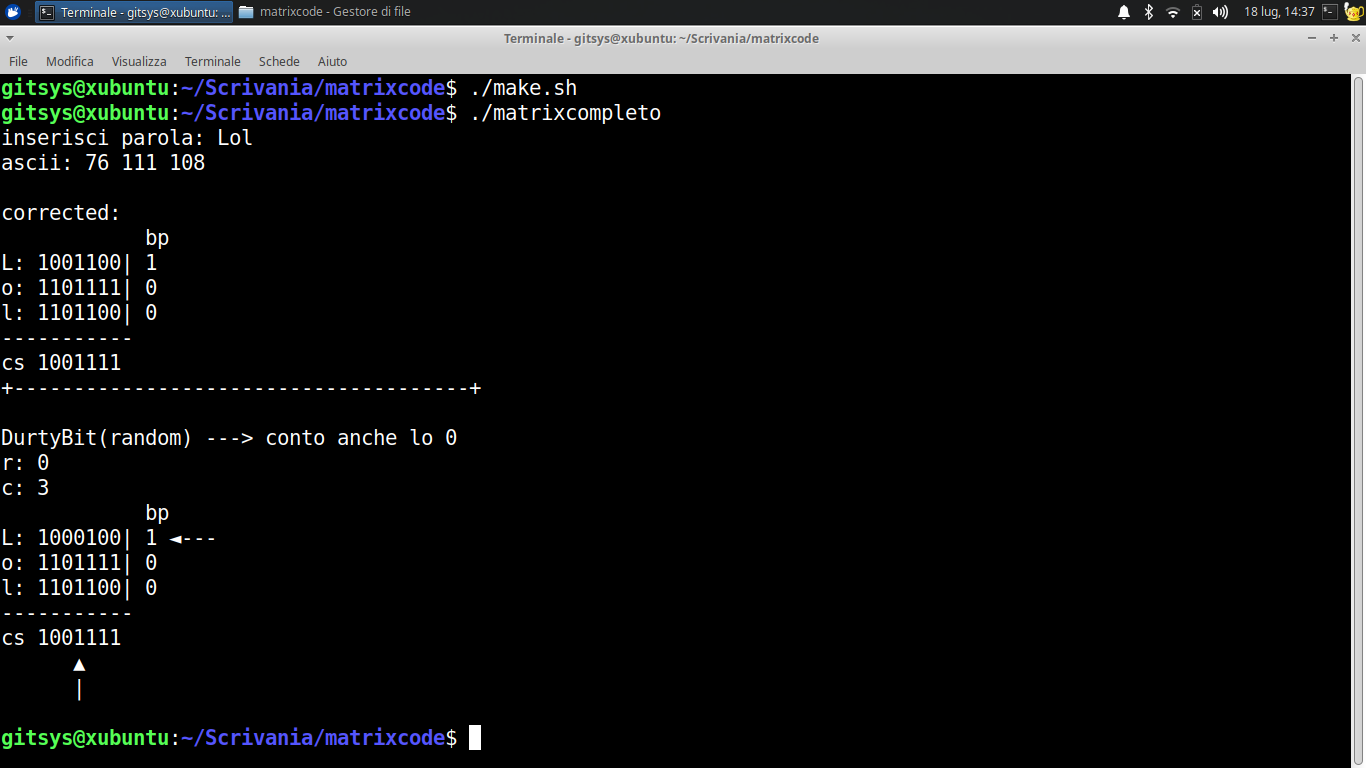
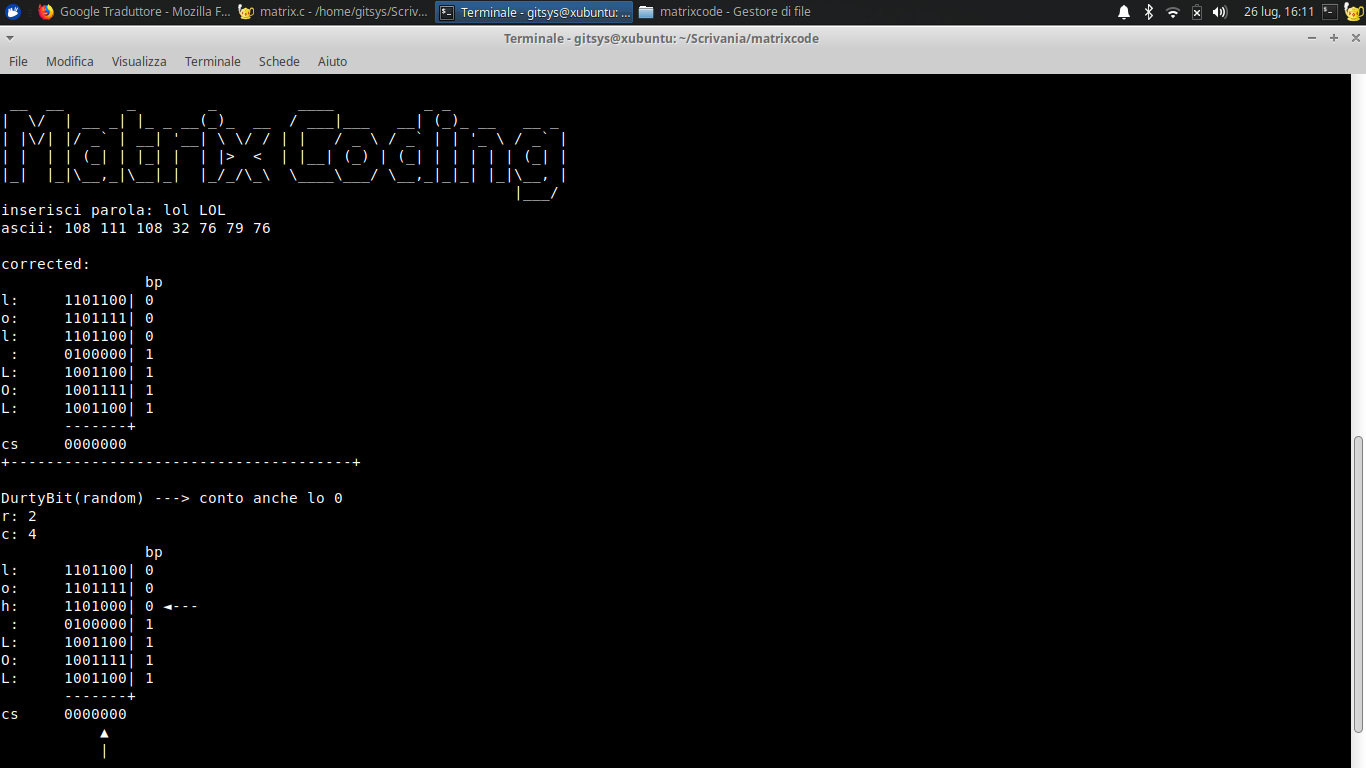
final commit n6

diff --git a/matrixfunc.c b/matrixfunc.c
@@ -2,13 +2,14 @@
 #include <stdlib.h>
 #include <string.h>
 #include <time.h>
+#include <math.h>
 
 #include "matrixlib.h"
 
 void fascii(int ascii[],char parola[])
 {
-	//#converte char in ascii e stampa
-	int l = strlen(parola)-1;
+	//#converte char in decimal e stampa
+	int l = strlen(parola)-1; 
 	for(int i=0;i<l;i++){
 		ascii[i]=(int)parola[i];
 		printf("%d ",ascii[i]);
@@ -17,21 +18,21 @@ void fascii(int ascii[],char parola[])
 }
 void intbin(int b[][C],int binv[][C],int n[],char parola[]) //n=numero ascii
 {
-	//#da ascii a bin
+	//#da decimal a bin
 	printf("\n");
 	int l = strlen(parola)-1;
 	for(int i=0;i<l;i++){
 		for(int j=0;j<C;j++){
-			if(n[i]%2==0){
+			if(n[i]%2==0){//resto 0
 				b[i][j]=0;
-			}else{
+			}else{// resto 1
 				b[i][j]=1;
 			}
 			n[i]=n[i]/2;
 		}
 	}
 
-	binReverse(b,binv,parola);
+	binReverse(b,binv,parola); //reverse della stringa binaria
 
 }
 void binReverse(int bintmp[][C],int pbin[][C],char parola[])
@@ -60,13 +61,14 @@ void binReverse(int bintmp[][C],int pbin[][C],char parola[])
 void stampa(int arrbp[],int arrcs[],int pbi[][C],char parola[],int xr,int n)
 {
 	int l = strlen(parola)-1;
-	printf("\t    bp");
+	printf("\t        bp");
 	for(int i=0;i<l;i++){
 		//stampa parola
-		if( n==0 || (xr!=i && n==1) ){
-			printf("\n%c: ",parola[i]);
+		if( n==0 || (xr!=i && n==1) ){ 
+			printf("\n%c:     ",parola[i]);
 		}else if(xr==i && n==1){
-			printf("\nP: ");
+			int cascii=binint(pbi,xr,parola);
+			printf("%c:     ",cascii);
 		}
 		for(int j=0;j<C;j++){
 			//stampa stringa binaria
@@ -82,12 +84,13 @@ void stampa(int arrbp[],int arrcs[],int pbi[][C],char parola[],int xr,int n)
 	}
 	
 	//stampa separatore
-	printf("\n");
-	for(int i=0;i<11;i++)
+	printf("\n       ");
+	for(int i=0;i<7;i++)
 		printf("-");
+	printf("+");
 
 	/*stampa cs*/
-	printf("\ncs ");
+	printf("\ncs     ");
 	for(int j=0;j<C;j++){
 		printf("%d",arrcs[j]);
 	}
@@ -154,9 +157,9 @@ void rilevazione(int m[][C],char parola[],int arrbp[],int arraycs[],int *xr,int 
 			}
 		}
 		//righe
-		x=controllo(parola,arrbp,contbp,arraycs,contcs,i,0);
+		x=controllo(parola,arrbp,contbp,arraycs,contcs,i,0); 
 		if(x!=0){
-			*xr=x;
+			*xr=x; //prendo la cordinata(righe)
 		}
 		//printf("\n");
 		contbp=0;
@@ -173,7 +176,7 @@ void rilevazione(int m[][C],char parola[],int arrbp[],int arraycs[],int *xr,int 
 		//colonne
 		y=controllo(parola,arrbp,contbp,arraycs,contcs,j,1);
 		if(y!=0){
-			*yc=y;
+			*yc=y;//prendo la cordinata(colonna)
 		}
 		contcs=0;
 	}
@@ -181,6 +184,10 @@ void rilevazione(int m[][C],char parola[],int arrbp[],int arraycs[],int *xr,int 
 }
 int controllo(char p[],int arrbp[],int cbp,int arrcs[],int ccs,int z,int n)
 {
+	/*
+	 * n=0 --> bit di parità
+	 * n=1 --> checksum
+	*/ 
 	switch(n){
 		case 0:
 			if((cbp%2==0 && arrbp[z]==1) || (cbp%2==1 && arrbp[z]==0)){ //se numero cbp-->pari&&arrbp[z]-->1	 oppure	 cbp-->dipari&&arrbp[z]-->0
@@ -198,7 +205,7 @@ return 0;
 }
 void setw(int yc)
 {	
-	printf("\n   ");
+	printf("\n       ");
 	for(int i=0;i<yc;i++){
 		printf(" "); 
 	}
@@ -207,8 +214,30 @@ void setw(int yc)
 	for(int i=0;i<yc;i++){
 		printf(" "); 
 	}
-	printf("   |\n\n");
+	printf("       |\n\n");
 
 	
 }
+int binint(int m[][C],int xr,char parola[])
+{
+	//salvo in v[C] la stringa binaria della matrice "sporcata"
+	int v[C],n=0;
+	printf("\n");
+	for(int i=0;i<strlen(parola)-1;i++){
+		if(xr==i){ //controllo
+			for(int j=0;j<C;j++){
+					v[j]=m[xr][j];
+			}
+		}
+			
+	}
 
+	//da binario a decimal
+	for(int i=C-1,j=0; i>=0; i--,j++){
+		if(v[j]==1){
+			n=n+pow(2,i); //n=n+2^i
+		}
+	}
+	
+return n;
+}

diff --git a/matrix.c b/matrix.c
@@ -37,21 +37,15 @@ int main()
 	int xr,yc;
 	                                                                                   
 	do{
-		system(PULISCI);
-		#if __linux__ || __GNUC__ || __LINUX__ || _linux || __APPLE__
-				system("figlet -l ""Matrix  Coding""");
-		#elif __WIN32__ || _WIN64 || __CYGWIN__ || __CYGWIN32__
-				printf("=============\n");
-				printf("Matrix Coding");
-				printf("\n=============\n");
-		#endif
+		system(PULISCI); //pulizia dello schermo funzionante sia in winzzoz che in linux
+		OSINTRO(); //macro definita in matrixlib.h
 		printf("inserisci parola: ");
 		//scanf("%s",parola);
-		fgets(parola,99,stdin);
+		fgets(parola,99,stdin); //mi tiene conto del carattere 32 (lo spazio)
 	}while(strcmp(parola,"\n")==0);			
 	
 	printf("ascii: ");
-	fascii(ascii,parola);
+	fascii(ascii,parola); //convert char in deciaml
 	intbin(bintmp,binv,ascii,parola); //convrt int/bin
 
 	printf("\n");
@@ -63,7 +57,10 @@ int main()
 
 	rilevazione(binv,parola,arrbp,arrcheck,&xr,&yc); //passaggio per riferimento in C
  	stampa(arrbp,arrcheck,binv,parola,xr,1);
- 	setw(yc);
+ 	setw(yc); //con i dovuti spazi stampo su schermo la freccia verticale
+ 	printf("\n\n");
+ 
+
  	
 return 0;
 }

diff --git a/matrixlib.h b/matrixlib.h
@@ -1,11 +1,18 @@
-#if __linux__ || __GNUC__ || __LINUX__ || _linux || __APPLE__
+#if __linux__	//se è un sistema linux dichiara
 #	define FRECCIAORIZZONTALE " ◄---"
 #	define FRECCIAVERTICALE "▲\n"
 #	define PULISCI "clear"
-#elif __WIN32__ || _WIN64 || __CYGWIN__ || __CYGWIN32__
+#	define OSINTRO() system("figlet -l ""Matrix  Coding""")
+#elif __APPLE__ //altrimenti se è un sistema apple dichiara
+#	define FRECCIAORIZZONTALE " ◄---"
+#	define FRECCIAVERTICALE "▲\n"
+#	define PULISCI "clear"
+#	define OSINTRO() 
+#elif __WIN32__ || _WIN64 || __CYGWIN__ || __CYGWIN32__ //altrimenti se è un sistema winzzoz dichiara
 #	define FRECCIAORIZZONTALE " <---"
 #	define FRECCIAVERTICALE "^\n"
 #	define PULISCI "cls"
+#	define OSINTRO() printf("=============\nMatrix Coding\n=============\n")
 #endif
 
 #define C 7
@@ -24,3 +31,5 @@ void durtybit(int[][C],char[]);
 void rilevazione(int[][C],char[],int[],int[],int*,int*);
 int controllo(char[],int[],int,int[],int,int,int);
 void setw(int);
+int binint(int[][C],int,char[]);
+

diff --git a/README.MD b/README.MD
@@ -19,5 +19,23 @@ sudo pacman -S figlet
 **# INSTALL WINZZOZ**
 
 ```batch
-gcc matrix.c matrixfunc.c -o matrixcompleto
+gcc matrix.c matrixfunc.c -o matrixcompleto 
 ```
+
+oppure
+
+```batch
+gcc matrix.c matrixfunc.c -o matrixcompleto -lm
+```
+
+=======================================================================
+
+*photo*
+
+<div>
+<img src="photo/photo1.png">
+</div> 
+
+<div>
+<img src=photo/photo2.png>
+</div>
